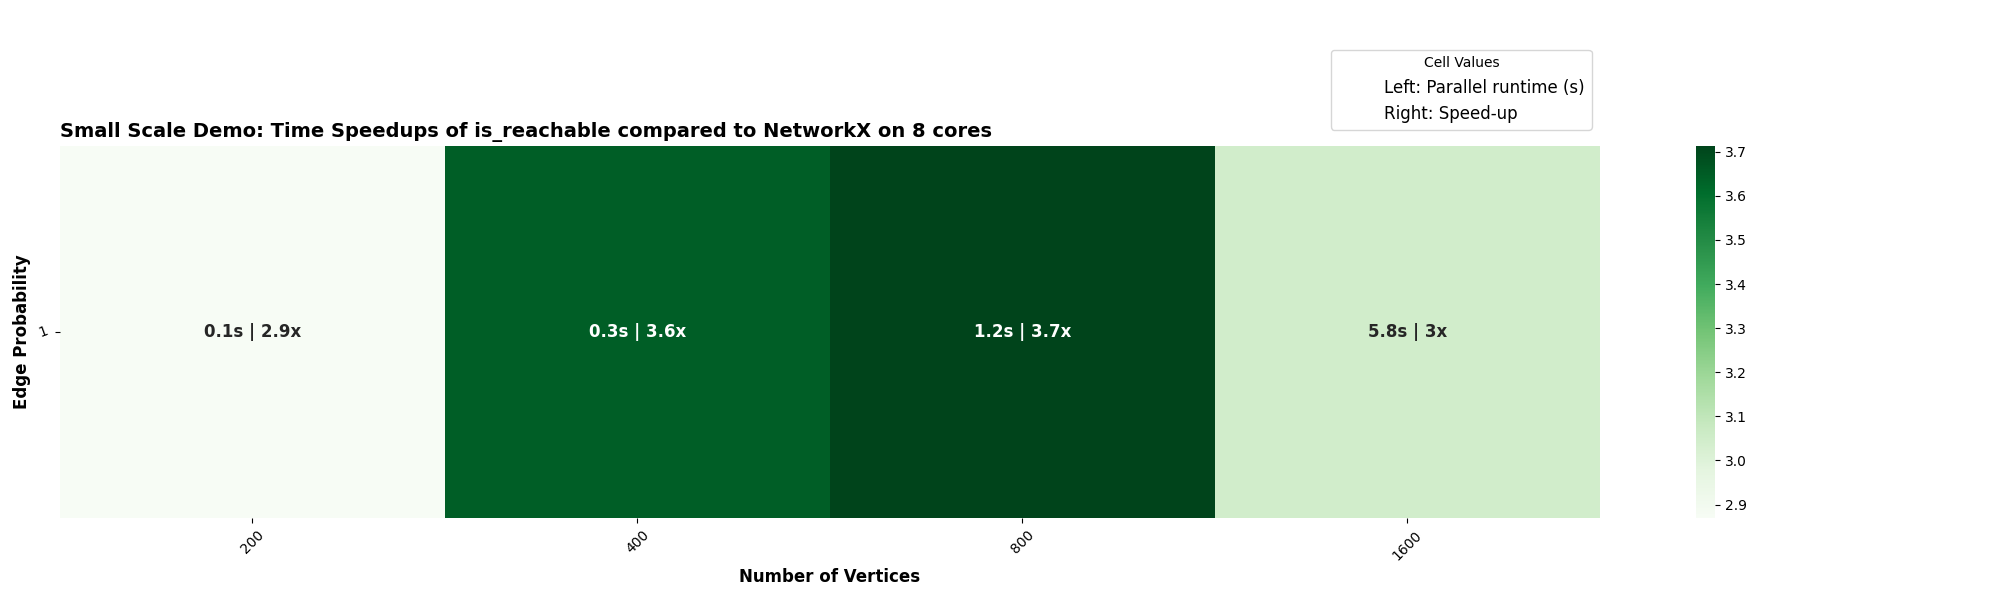
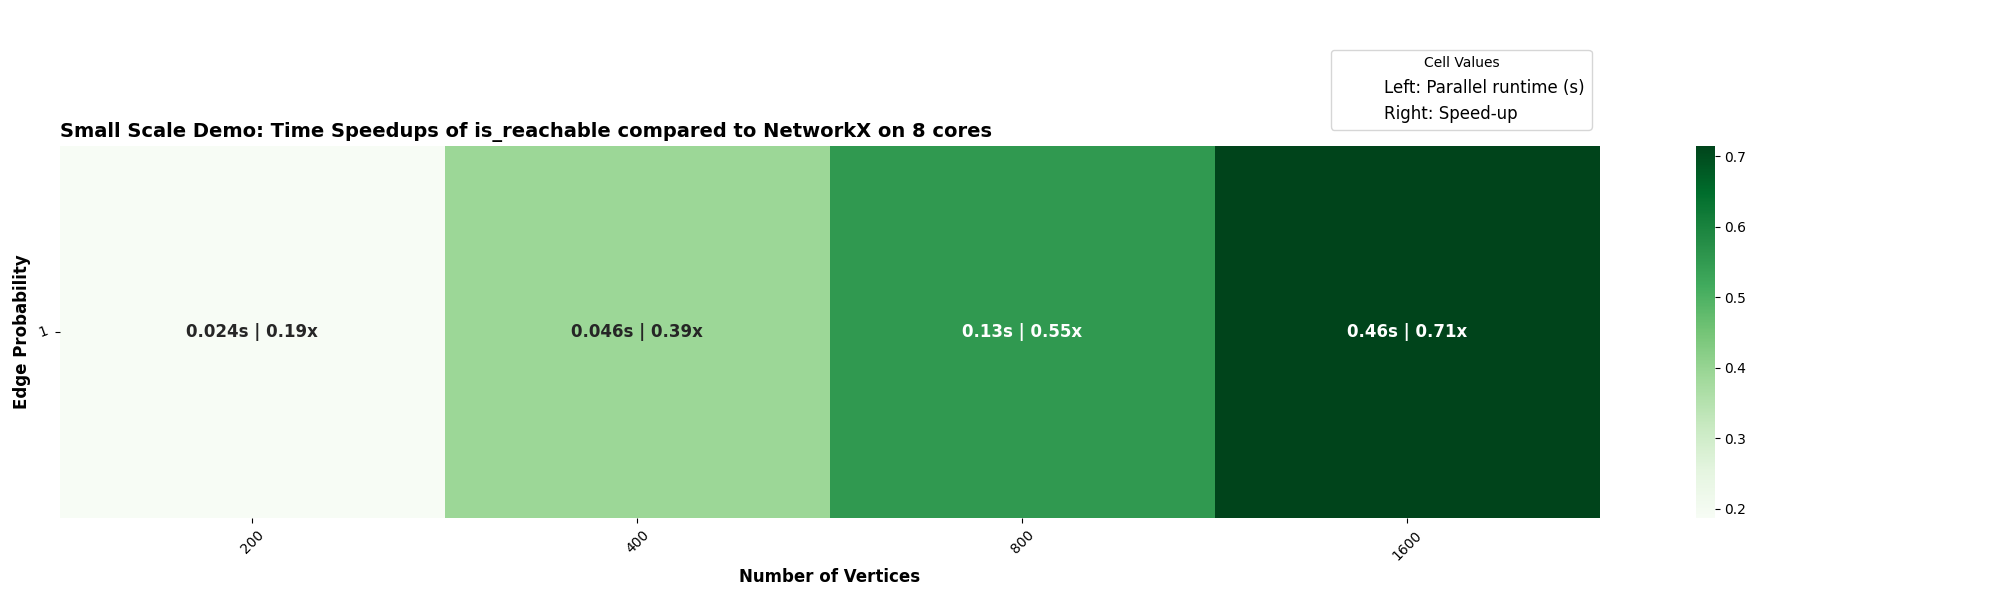
parallel implementation of `is_reachable` using mem-mapping (#119)
* add a numpy implementation of is_reachable

* added a label to node index mapping

* add ordering

* minor changes

* minor optimisation

* attach updated heatmap

* revert any changes to timing script

* move heatmap to folder old_heatmaps

* update heatmap

* add should_run

diff --git a/nx_parallel/algorithms/tournament.py b/nx_parallel/algorithms/tournament.py
@@ -1,7 +1,9 @@
-from joblib import Parallel, delayed
+from joblib import Parallel, delayed, dump, load
 import nx_parallel as nxp
-from networkx.algorithms.simple_paths import is_simple_path as is_path
 import networkx as nx
+import tempfile
+import shutil
+import os
 
 __all__ = [
     "is_reachable",
@@ -9,7 +11,7 @@ __all__ = [
 ]
 
 
-@nxp._configure_if_nx_active()
+@nxp._configure_if_nx_active(should_run=nxp.should_skip_parallel)
 def is_reachable(G, s, t, get_chunks="chunks"):
     """The function parallelizes the calculation of two
     neighborhoods of vertices in `G` and checks closure conditions for each
@@ -25,22 +27,36 @@ def is_reachable(G, s, t, get_chunks="chunks"):
         into `n_jobs` number of chunks.
     """
 
-    def two_neighborhood_close(G, chunk):
-        tnc = []
+    def two_neighborhood_close(adjM_filepath, chunk):
+        adjM = load(adjM_filepath, mmap_mode="r")
+        node_indices = range(adjM.shape[0])
         for v in chunk:
             S = {
                 x
-                for x in G
-                if x == v or x in G[v] or any(is_path(G, [v, z, x]) for z in G)
+                for x in node_indices
+                if x == v
+                or adjM[v, x]
+                or any(adjM[v, z] and adjM[z, x] for z in node_indices)
             }
-            tnc.append(not (is_closed(G, S) and s in S and t not in S))
-        return all(tnc)
+            if s_ind in S and t_ind not in S and is_closed(adjM, node_indices, S):
+                return False
+        return True
 
-    def is_closed(G, nodes):
-        return all(v in G[u] for u in set(G) - nodes for v in nodes)
+    def is_closed(adjM, node_indices, S):
+        return all(u in S or adjM[u, v] for u in node_indices for v in S)
 
     if hasattr(G, "graph_object"):
         G = G.graph_object
+
+    nodelist = list(G)
+    adjM = nx.to_numpy_array(G, dtype=bool, nodelist=nodelist)
+    nodemap = {n: i for i, n in enumerate(nodelist)}
+    s_ind = nodemap[s]
+    t_ind = nodemap[t]
+
+    temp_folder = tempfile.mkdtemp()
+    adjM_filepath = os.path.join(temp_folder, "adjMatrix.mmap")
+    dump(adjM, adjM_filepath)
 
     n_jobs = nxp.get_n_jobs()
 
@@ -49,9 +65,11 @@ def is_reachable(G, s, t, get_chunks="chunks"):
     else:
         node_chunks = get_chunks(G)
 
-    return all(
-        Parallel()(delayed(two_neighborhood_close)(G, chunk) for chunk in node_chunks)
+    results = Parallel()(
+        delayed(two_neighborhood_close)(adjM_filepath, chunk) for chunk in node_chunks
     )
+    shutil.rmtree(temp_folder)
+    return all(results)
 
 
 @nxp._configure_if_nx_active()

diff --git a/_nx_parallel/__init__.py b/_nx_parallel/__init__.py
@@ -161,7 +161,7 @@ def get_info():
                 },
             },
             "is_reachable": {
-                "url": "https://github.com/networkx/nx-parallel/blob/main/nx_parallel/algorithms/tournament.py#L13",
+                "url": "https://github.com/networkx/nx-parallel/blob/main/nx_parallel/algorithms/tournament.py#L15",
                 "additional_docs": "The function parallelizes the calculation of two neighborhoods of vertices in `G` and checks closure conditions for each neighborhood subset in parallel.",
                 "additional_parameters": {
                     'get_chunks : str, function (default = "chunks")': "A function that takes in a list of all the nodes as input and returns an iterable `node_chunks`. The default chunking is done by slicing the `nodes` into `n_jobs` number of chunks."
@@ -231,7 +231,7 @@ def get_info():
                 },
             },
             "tournament_is_strongly_connected": {
-                "url": "https://github.com/networkx/nx-parallel/blob/main/nx_parallel/algorithms/tournament.py#L58",
+                "url": "https://github.com/networkx/nx-parallel/blob/main/nx_parallel/algorithms/tournament.py#L76",
                 "additional_docs": "The parallel computation is implemented by dividing the nodes into chunks and then checking whether each node is reachable from each other node in parallel.",
                 "additional_parameters": {
                     'get_chunks : str, function (default = "chunks")': "A function that takes in a list of all the nodes as input and returns an iterable `node_chunks`. The default chunking is done by slicing the `nodes` into `n_jobs` number of chunks."
